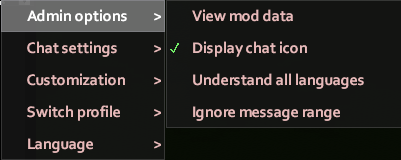
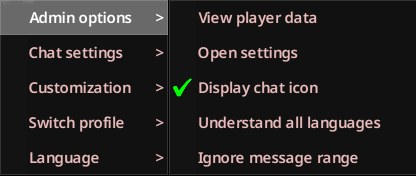
Update documentation

diff --git a/.github/CONTRIBUTING.md b/.github/CONTRIBUTING.md
@@ -8,13 +8,13 @@ This document provides a general overview of how contributing to the project wor
 There are a few different ways to contribute:
 
 - Create an [issue](https://github.com/omarkmu/pz-omichat/issues/new/choose); report a bug or ask for a feature.
-- Create a [pull request](https://github.com/omarkmu/pz-omichat/compare) after reviewing the code contribution [guidelines](#contributing-code) and making your changes in a fork.
 - Contribute [translations](#contributing-translations).
+- Create a [pull request](https://github.com/omarkmu/pz-omichat/compare) after reviewing the code contribution [guidelines](#contributing-code) and making your changes in a fork.
 - Ask and answer questions on [Discord](https://discord.gg/juv9TqygFu).
 
 ## New contributors
 
-If you're not familiar with the project, check out the [README](../docs/README.md).
+If you're not familiar with the project, check out the [documentation](https://omarkmu.github.io/pz-omichat).
 If you're totally new to contributing to GitHub repositories, here are some resources:
 
 - [Set up Git](https://docs.github.com/en/get-started/quickstart/set-up-git)
@@ -25,13 +25,11 @@ If you're totally new to contributing to GitHub repositories, here are some reso
 ## Contributing code
 
 This section assumes you're familiar with Git and GitHub.
-If you're not, please see the section above for [new contributors](#new-contributors).
 
-Start by creating a [fork](https://github.com/omarkmu/pz-omichat/fork).
-In your fork, you may want to create a new branch with `git switch -c your-branch-name`.
-This branch should be based on and merged into the `dev` branch.
-
-Once you're satisfied with your changes, create a [pull request](https://github.com/omarkmu/pz-omichat/compare/dev...) with the base branch set to `dev`.
+1. Start by creating a [fork](https://github.com/omarkmu/pz-omichat/fork).
+2. Check out the fork and switch the the `dev` branch. Changes should all be based on and merged into this branch, not `main`.
+3. You may want to create a new branch with `git switch -c your-branch-name`. This is optional.
+4. Once you're satisfied with your changes, create a [pull request](https://github.com/omarkmu/pz-omichat/compare/dev...) with the base branch set to `dev`.
 
 ### Guidelines
 
@@ -57,7 +55,6 @@ Please indicate how you tested your changes in the PR.
     - Clearly, succintly describe what you did in that commit.
     If you need to provide further information, do so *after* the first line. The first line should provide a quick summary; subsequent lines may have more details.
     - Be written in present tense, imperative mood (e.g., “Add x function”, *not* “Added x function”).
-    - If you need to provide further information, do so *after* the first line. The first line should provide a quick summary; subsequent lines may have more details.
 
 ## Contributing translations
 OmiChat's translations are defined using [Fluent](https://projectfluent.org) translation files, rather than the game's translation system.
@@ -74,7 +71,7 @@ If you're unsure about any of the steps, feel free to ask about it on [Discord](
 3. Modify the strings to use your translation.
     - The files have comments that explain the purpose of variable substitutions.
     Anything that is not marked as `@param X?` (where `X` is the variable name) **must** be included in the translation.
-4. Upload a `.zip` of the folder on [Discord](https://discord.gg/juv9TqygFu).
+4. Upload a `.zip` of the folder on [Discord](https://discord.gg/juv9TqygFu), in the `#translations` channel.
 If you're familiar with Git, you can instead create a pull request with your translation changes; see the section on [contributing code](#contributing-code).
 
 | Game Language       | Subdirectory |

diff --git a/docs/user-guide/chat-settings.md b/docs/user-guide/chat-settings.md
@@ -8,7 +8,7 @@ You can access the chat settings by clicking on the gear icon at the top right o
 
 ## Basic settings
 
-Most of the settings within the “chat settings” submenu exist in vanilla.
+Most of the settings within the **chat settings** submenu exist in vanilla.
 The existing settings work equivalently.
 There are two new options in this submenu.
 
@@ -17,7 +17,7 @@ There are two new options in this submenu.
 The **suggestions** submenu can be used to control whether suggestions are offered based on chat box input and how those suggestions are accepted.
 
 The **retain commands** submenu can be used to determine whether certain commands are “retained,” so that they are set as the initial input the next time the chat is used.
-The submenu contains three options: “Chat,” “RP,” and “Other.”
+The submenu contains three options: *Chat*, *RP*, and *Other*.
 The first option refers to streams such as `/say`, the second refers to streams like `/me`, and the third covers all other commands.
 
 ## Customization
@@ -26,11 +26,11 @@ The customization settings can be used to tailor the chat to your preferences.
 
 ![Screenshot of customization settings](../images/chat-settings-customization.png)
 
-The **enable/disable sign language emotes** option is only shown when the player character knows a signed language.
+The **enable/disable sign language emotes** option is only shown when the player character knows a [signed language](../configuration/language.md#list-signed).
 This controls whether a random [emote animation](./emote-shortcuts.md) is played whenever they send a message.
 
 The **enable/disable name colors** option allows players to toggle the appearance of name colors in their chat.
-This will only display if the [`Name Colors`](../configuration/customization.md##enablenamecolors) configuration option is enabled.
+This will only display if the [`Name Colors`](../configuration/customization.md#enablenamecolors) configuration option is enabled.
 
 The **manage profiles** option is used to open the profile manager, which can be used to customize callouts and chat colors.
 
@@ -59,7 +59,7 @@ These options only show up if the [`Custom Shouts`](../configuration/customizati
 ### Character customization
 
 If a server has [character customization](../configuration/customization.md#enablecharactercustomization) enabled,
-the customization submenu also includes QoL character modification options.
+the customization submenu also includes quality of life character modification options.
 The available options are self-explanatory.
 
 ![Screenshot of character customization settings](../images/chat-settings-customization-2.png)
@@ -71,7 +71,7 @@ The available options are self-explanatory.
 The **Language** submenu will only display for players that know multiple languages or can add new ones.
 From this menu, players can select the roleplay language that they want to use in chat.
 The currently selected language will be displayed with a checkmark.
-The option to add new languages will only be available if a player has more available language slots than languages.
+The option to add new languages will only be available if a player has more available [language slots](../configuration/language.md#defaultslots) than languages.
 
 Languages other than the default language will display an indicator for the language when used in chat.
 Players with characters that don't speak the language will see a chat message indicating that they don't understand it.

diff --git a/docs/customization/strings.md b/docs/customization/strings.md
@@ -2,12 +2,13 @@
 
 Some mod features allow for custom string translations, so that players can see text in their preferred languages.
 These features expect strings of a certain format to be included in a separate mod.
-This could be an unlisted mod used by specifically a single server, or an extension mod that adds default content for servers.
+This could be an unlisted mod used by a single server, or an extension mod that adds default content for servers.
 
-These translations are not defined using the game's translation system;
-see the information about [contributing translations](https://github.com/omarkmu/pz-omichat/blob/main/.github/CONTRIBUTING.md#contributing-translations) for details.
-
-The comment `### @bundle OmiChat` must be included at the top of translation files for them to be included.
+> [!NOTE]
+> These translations are not defined using the game's usual translation system.
+> See the information about [contributing translations](https://github.com/omarkmu/pz-omichat/blob/main/.github/CONTRIBUTING.md#contributing-translations) for details.
+>
+> The comment `### @bundle OmiChat` must be included at the top of translation files for them to be included.
 
 ## Dialogue Tags
 
@@ -29,7 +30,7 @@ unknown-language-mutters = { $name } mutters something in { $language }.
 
 unknown-language-signed-mutters = { $name } subtly signs something in { $language }.
 
-# or, since unknown-language-signed-mutters is the same as the string for 'whispers':
+# or, since it's the same as the built-in string for 'whispers':
 unknown-language-signed-mutters = { unknown-language-signed-whispers }
 ```
 
@@ -39,12 +40,12 @@ If a string is not defined for the tag, it will default to the translation for `
 
 Roleplay languages allow translations for language names.
 These can be defined with a `language-[name]` string.
-For example, `language-english` defines the text used for the `English` language.
+For example, `language-english` defines the translation used for the `English` roleplay language.
 
-When retrieving translations, language names will be converted to lowercase and spaces will be rreplaced with hyphens.
+When retrieving translations, language names will be converted to lowercase and spaces will be replaced with hyphens.
 Translations for `Haitian Creole`, for example, should be defined using `language-haitian-creole`.
 
 If the translation is absent, the language name will be used as-is regardless of a player's language.
-Translations are provided by the mod for the following language names:
+Translations are provided by the mod for the following roleplay language:
 
 {{#include _languages.md}}

diff --git a/docs/README.md b/docs/README.md
@@ -1,7 +1,7 @@
 <!-- ANCHOR: intro -->
 
 <a href="https://github.com/omarkmu/pz-omichat">
-<img src="./images/icon.png" width=256 height=256 />
+<img src="./images/logo.png" width=256 height=256 />
 </a>
 
 [![](https://img.shields.io/discord/1228107690354671626?style=for-the-badge&logo=discord&logoColor=%23fff&label=Discord&labelColor=%235865F2&color=%23555)](https://discord.gg/juv9TqygFu)
@@ -11,38 +11,9 @@ It's available on the [Steam workshop](https://steamcommunity.com/sharedfiles/fi
 
 <!-- ANCHOR_END: intro -->
 
-For details, please see the [documentation](https://omarkmu.github.io/pz-omichat)!
+For details, including a list of features, please see the [documentation](https://omarkmu.github.io/pz-omichat)!
 
-<!-- ANCHOR: content -->
-
-## Features
-
-This mod aims to be as extensible and configurable as possible.
-The vast majority of the features in the mod can be configured or completely disabled via the configuration.
-
-- Chat color customization
-- Speech bubble color customization
-- Callout customization
-- Character naming with `/name`
-- Profiles for character switching
-- Character customization options (grow hair/beard, change hair color)
-- Roleplay chat buffs
-- Display of chat names in menus (Trading, Medical Check)
-- Local `/whisper` chat
-- `/card`, `/roll`, and `/flip` commands.
-- Roleplay descriptions with (`/me`, `/do`, etc.)
-- Range-based chat streams
-- Input suggestion box
-- Emote animation shortcuts (.clap, .salute, .surrrender, etc.)
-- Roleplay languages
-- Typing indicators (off by default)
-- Compatibility with [True Actions Act 3 - Dancing](https://steamcommunity.com/sharedfiles/filedetails/?id=2648779556) with `/dance` (currently disabled)
-- Configurable chat streams
-- Configurable info text
-- Customization of names, timestamps, all chat types, and more via powerful format strings
-- Various admin commands
-- Various other options for chat customization
-- API for extension by other mods
+<!-- ANCHOR: credits -->
 
 ## Credits
 
@@ -52,6 +23,6 @@ Thank you to the translators!
 - Korean: 우로 (Wuro)
 
 If you'd like to see the mod translated into your language, please [contribute](https://github.com/omarkmu/pz-omichat/blob/main/.github/CONTRIBUTING.md#contributing-translations)!  
-Some features were inspired by buffy's roleplay chat.
+Some features were inspired by buffy's roleplay chat. The range indicator and `/status` were inspired by Wasteland's RP chat.
 
-<!-- ANCHOR_END: content -->
+<!-- ANCHOR_END: credits -->

diff --git a/docs/format-strings/functions.md b/docs/format-strings/functions.md
@@ -11,8 +11,8 @@ Like [tokens](./tokens.md), functions are case-sensitive.
 If a function returns multiple values, it will return them as an [at-map](./at-maps.md).
 Individual return values can be accessed using the `$NthValue(o n)` function.
 
-To include a literal space or multiple words in a single argument, text within functions can be enclosed within pairs of \`.
-Escapes will still function inside the enclosed text, but they are only necessary to escape \`.
+To include a literal space or multiple words in a single argument, text within functions can be enclosed within pairs of backticks (`).
+Escapes still function inside the enclosed text, but they are only necessary to escape backticks.
 
 ```
 $Set(_token `hello world`)$_token → hello world
@@ -461,7 +461,7 @@ If there is no `tags` token or it is not an [at-map](./at-maps.md), this does no
 ### `$ColorActions(s options)` {#other-coloractions}
 
 Wraps actions within `s` in color tags.
-Actions are delimited by quote followed by an asterisk (`" *`).
+Actions are delimited by a quote followed by an asterisk (`" *`).
 
 This accepts the following options in the form of an [at-map](./at-maps.md):
 - `colorTargetTag`: if this is given, it will be used as the search tag for the stream to copy the color from. By default, this uses the appropriate tag based on existing tags.
@@ -473,6 +473,11 @@ Wraps quoted text within `s` in color tags.
 
 This accepts the following options in the form of an [at-map](./at-maps.md):
 - `colorTargetTag`: if this is given, it will be used as the search tag for the stream to copy the color from. By default, this uses the appropriate tag based on existing tags.
+
+### `$Default()` {#other-default}
+
+Returns the default content for a format string.
+If used outside of a valid format string, this returns the empty string.
 
 ### `$DisallowSignedOverRadio(options)` {#other-disallowsignedoverradio}
 

diff --git a/docs/index.md b/docs/index.md
@@ -1,3 +1,27 @@
-<!-- so we don't include a link to the docs in the docs -->
 {{#include README.md:intro}}
-{{#include README.md:content}}
+
+## Features
+
+This mod aims to be as extensible and configurable as possible.
+The vast majority of the features in the mod can be configured or completely disabled via the [configuration](https://omarkmu.github.io/pz-omichat/configuration).
+
+- Chat color [customization](./user-guide/chat-settings.md#color-customization)
+- Name color [customization](./configuration/customization.md#enablenamecolors)
+- Callout [customization](./configuration/customization.md#allowcustomshouts)
+- Character naming with [`/name`](./configuration/commands.md#name)
+- Customization [profiles](./user-guide/chat-settings.md#customization) for character/style switching
+- Roleplay customization [options](./user-guide/chat-settings.md#character-customization)
+- Roleplay chat [buffs](./configuration/buffs.md)
+- Display of chat names in [menus](./configuration/format.md#menuname) (Trading, Medical Check)
+- `/card`, `/roll`, and `/flip` [commands](./configuration/commands.md)
+- Emote animation [shortcuts](./user-guide/emote-shortcuts.md) (.clap, .salute, .surrrender, etc.)
+- Roleplay [languages](./configuration/language.md)
+- [Typing indicators](./configuration/typing-indicator.md)
+- Configurable chat [streams](./configuration/streams.md)
+- Configurable [info text](./configuration/general.md#infotext)
+- Customization of names, timestamps, all chat types, and more via powerful [format strings](./format-strings/index.md)
+- Various admin [commands](./user-guide/admins.md#commands)
+- Various other [configuration](./configuration/index.md) options
+- API for extension by other mods
+
+{{#include README.md:credits}}

diff --git a/docs/api/extending-format-strings.md b/docs/api/extending-format-strings.md
@@ -3,11 +3,12 @@
 [Format strings](../format-strings/index.md) can be extended using the API.
 Additional [functions](../format-strings/functions.md) or overrides of existing functions can be included by calling `OmiChat.extension.registerInterpolatorFunction`.
 
-OmiChat does not perform error handling while performing interpolation.
-Extensions should adhere to the convention of returning the empty string for invalid inputs rather than causing an error.
-Return values of `nil` or `false` will be treated as the empty string.
-
 If you think your extension should instead be included in the mod, feel free to [contribute](https://github.com/omarkmu/pz-omichat/blob/main/.github/CONTRIBUTING.md)!
+
+> [!WARNING]
+> OmiChat does **not** perform error handling for interpolation functions.
+> Extensions should adhere to the convention of returning the empty string for invalid inputs rather than causing an error.
+> Return values of `nil` or `false` will also be treated as the empty string.
 
 ## Example
 
@@ -16,11 +17,11 @@ A simple example which appends the length of the input:
 ```lua
 -- $example(hello) → hello5
 local OmiChat = require 'OmiChat/Client'
-OmiChat.extension.registerInterpolatorFunction('example', function(interpolator, s)
-    if not s then
+OmiChat.extension.registerInterpolatorFunction('example', function(_interpolator, str)
+    if not str then
         return
     end
 
-    return s .. #s
+    return str .. #str
 end)
 ```

diff --git a/docs/user-guide/admins.md b/docs/user-guide/admins.md
@@ -8,12 +8,12 @@ When the player has admin access, the gear button's context menu has an `Admin o
 
 The chat icon used for the **display chat icon** option is controlled by the [`Admin Icon`](../configuration/general.md#adminicon) configuration option.
 
-![The in-game admin menu](../images/admin-menu.png)
+![Screenshot of the in-game admin menu](../images/admin-menu.png)
 
-The **view mod data** option can be used to open a mod data viewer that displays data for all players, including those offline.
+The **view player data** option can be used to open a menu that displays data for all players, including those offline.
 It can also be used to modify mod data.
 
-![Mod data editor](../images/edit-mod-data.png)
+![Screenshot of the player data editor form](../images/edit-mod-data.png)
 
 ## Commands
 
@@ -48,13 +48,14 @@ Clears the chat icon for a player.
 **Usage**: `/iconinfo <name>`  
 Gets information about an icon.
 If provided a valid icon name or alias, it will display the icon.
+
 See the partial [list of icons](https://projectzomboid.com/chat_colours.txt) for possible aliases.
 
 ### `/addlanguage`
 
 **Usage**: `/addlanguage <username> <language>`  
 Adds a known language to a player.
-`language` must be one of the languages specified the **Languages** configuration.
+The provided `language` must be one of the configured [languages](../configuration/language.md#list).
 
 ### `/resetlanguages`
 

diff --git a/docs/format-strings/escapes-references.md b/docs/format-strings/escapes-references.md
@@ -12,15 +12,12 @@ For example, `$$PI()` would result in `$PI()`.
 
 ## References
 
-Sometimes, it's non-trivial to include certain characters like `«` and `»`.
-The [`$Char`](functions.md#string-char) function can be used to include these characters, but format strings also accept **character references** for ease-of-use.
-
-The configuration menu can handle these characters directly, so this is primarily useful
-for including special characters from a mod using the API.
+Although you can directly include characters like `«` and `»`, format strings also accept **character references** for ease-of-use.
 
 Both named references and numeric references are supported.
-Numeric references behave similarly to the `$Char` function; the character with the number specified will be used in place of the reference.
+Numeric references behave similarly to the [`$Char`](functions.md#string-char) function;
+the character with the number specified will be used in place of the reference.
 
-Using character references, `« $1 »` can be specified as `&#171; $1 &#187;` or `&laquo; $1 &raquo;`.
+Using character references, `« $input »` can be specified as `&#171; $input &#187;` or `&laquo; $input &raquo;`.
 
 The available characters are limited to those in the [ISO-8859-1](https://www.w3schools.com/charsets/ref_html_8859.asp) character set.

diff --git a/docs/user-guide/java-mods.md b/docs/user-guide/java-mods.md
@@ -3,14 +3,16 @@
 The [GitHub repository](https://github.com/omarkmu/pz-omichat) includes Java mod files that are **optional** and **server-side only.**
 The mod functions equivalently in-game without them, but the Java mods may be useful to server operators to address [concerns](https://github.com/omarkmu/pz-omichat/issues/9) about messages including invisible characters.
 
+> [!WARNING]
+> Java mods are likely to break between updates during b42 unstable!
+> If this happens, delete the `.class` files from where they were placed.
+
 ## Functionality
 
-The `ChatServer.class` replacement cleans up the server-side `chat` log files so that they don't include the invisible characters added by this mod.
-This makes reading these log files much easier.
+The `ChatServer.class` replacement cleans up the server-side `chat` log files to remove data included in messages for mod functionality.
 
 The `GeneralChat.class` replacement is recommended for servers using the game's Discord integration.
-This cleans up messages sent from the in-game `/all` chat so they don't display extra characters surrounding the text on Discord.
-It also cleans up some log messages sent directly to the `DebugLog` file.
+This cleans up messages sent from the in-game `/all` chat to remove data included in messages for mod functionality.
 
 ## Installation
 

diff --git a/docs/user-guide/emote-shortcuts.md b/docs/user-guide/emote-shortcuts.md
@@ -12,7 +12,7 @@ This can be useful for text roleplay servers, since players can play an animatio
 The shortcuts can also be used without a message; sending `!hi` will play the animation without sending a message in chat.
 
 > [!NOTE]
-> Unless the emote is the only thing sent, it must come after a space.
+> Unless the emote is at the beginning of the message, it must come after a space.
 > This is to prevent accidentally including an emote after ending a sentence with an exclamation point.
 
 ## Shortcut list

diff --git a/docs/format-strings/tokens.md b/docs/format-strings/tokens.md
@@ -5,7 +5,7 @@ which are replaced with a relevant value when they're used.
 These are specified with a dollar sign followed by the name of the token.
 Like [functions](./functions.md), tokens are case-sensitive; `$author` is not the same as `$Author`.
 
-The available tokens for a given option are documented in the in-game configuration menu.
+The available tokens for a given option are documented in the in-game [configuration](../configuration/index.md) menu.
 
 ## Error Tokens
 
